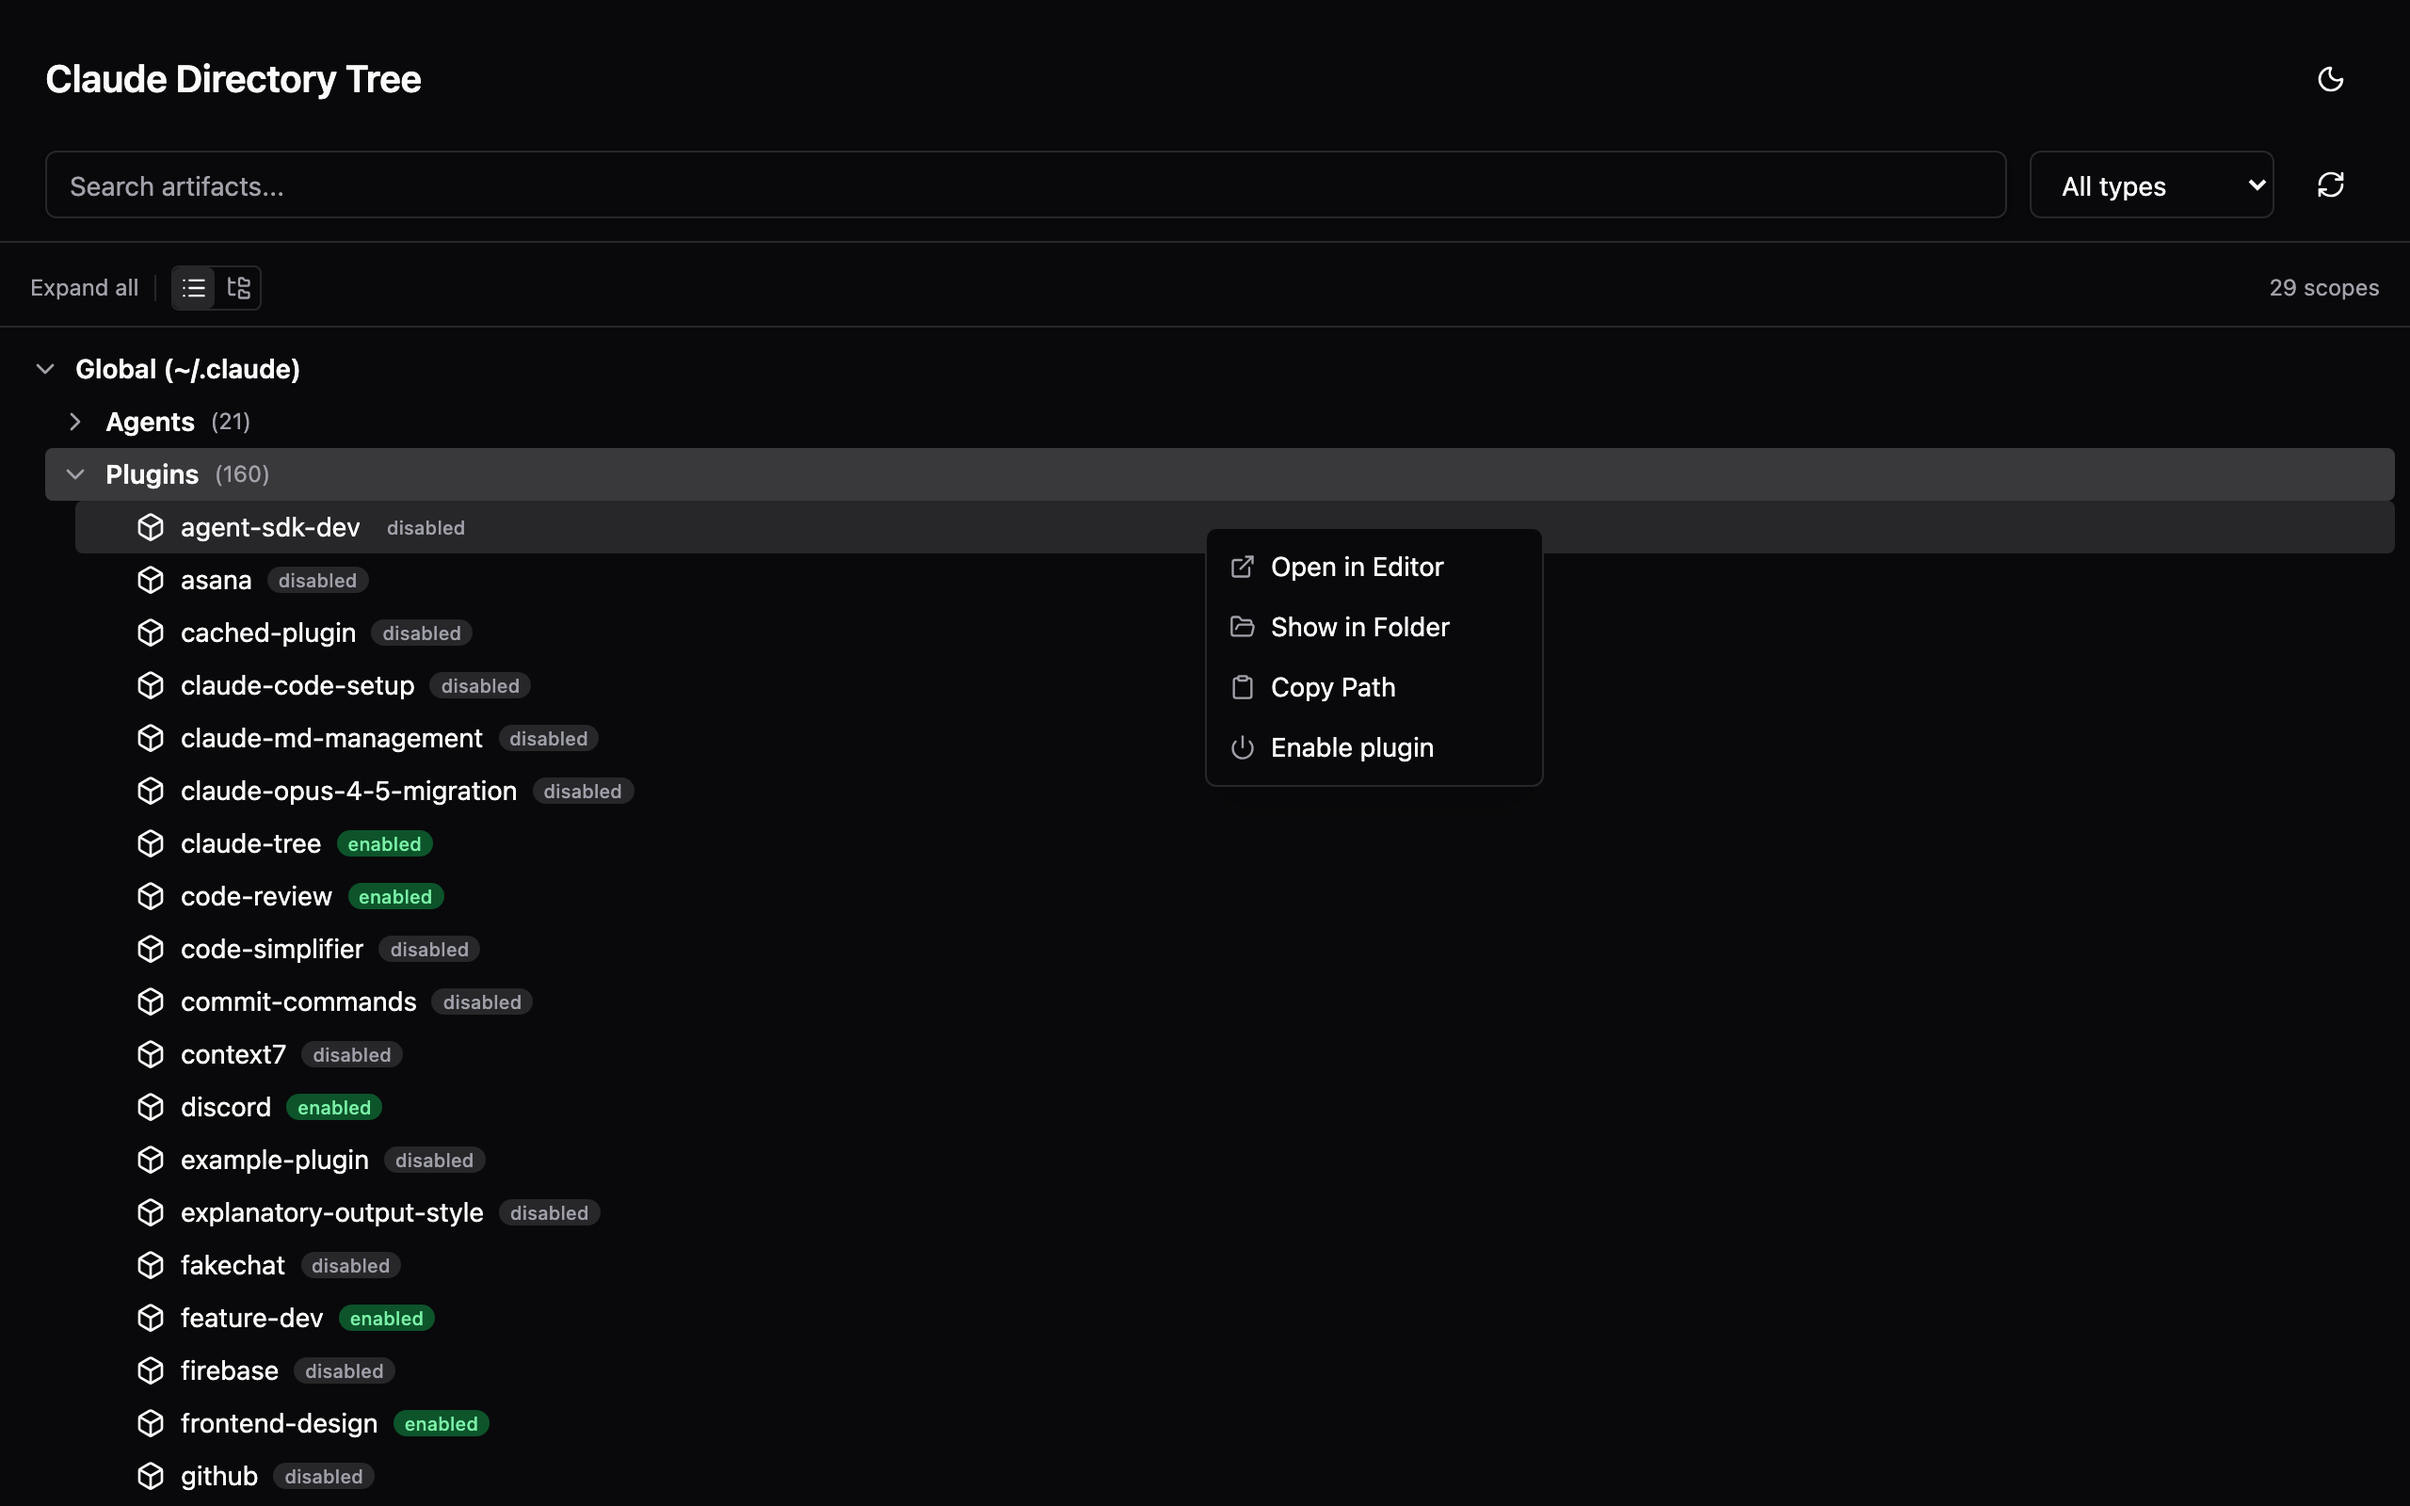
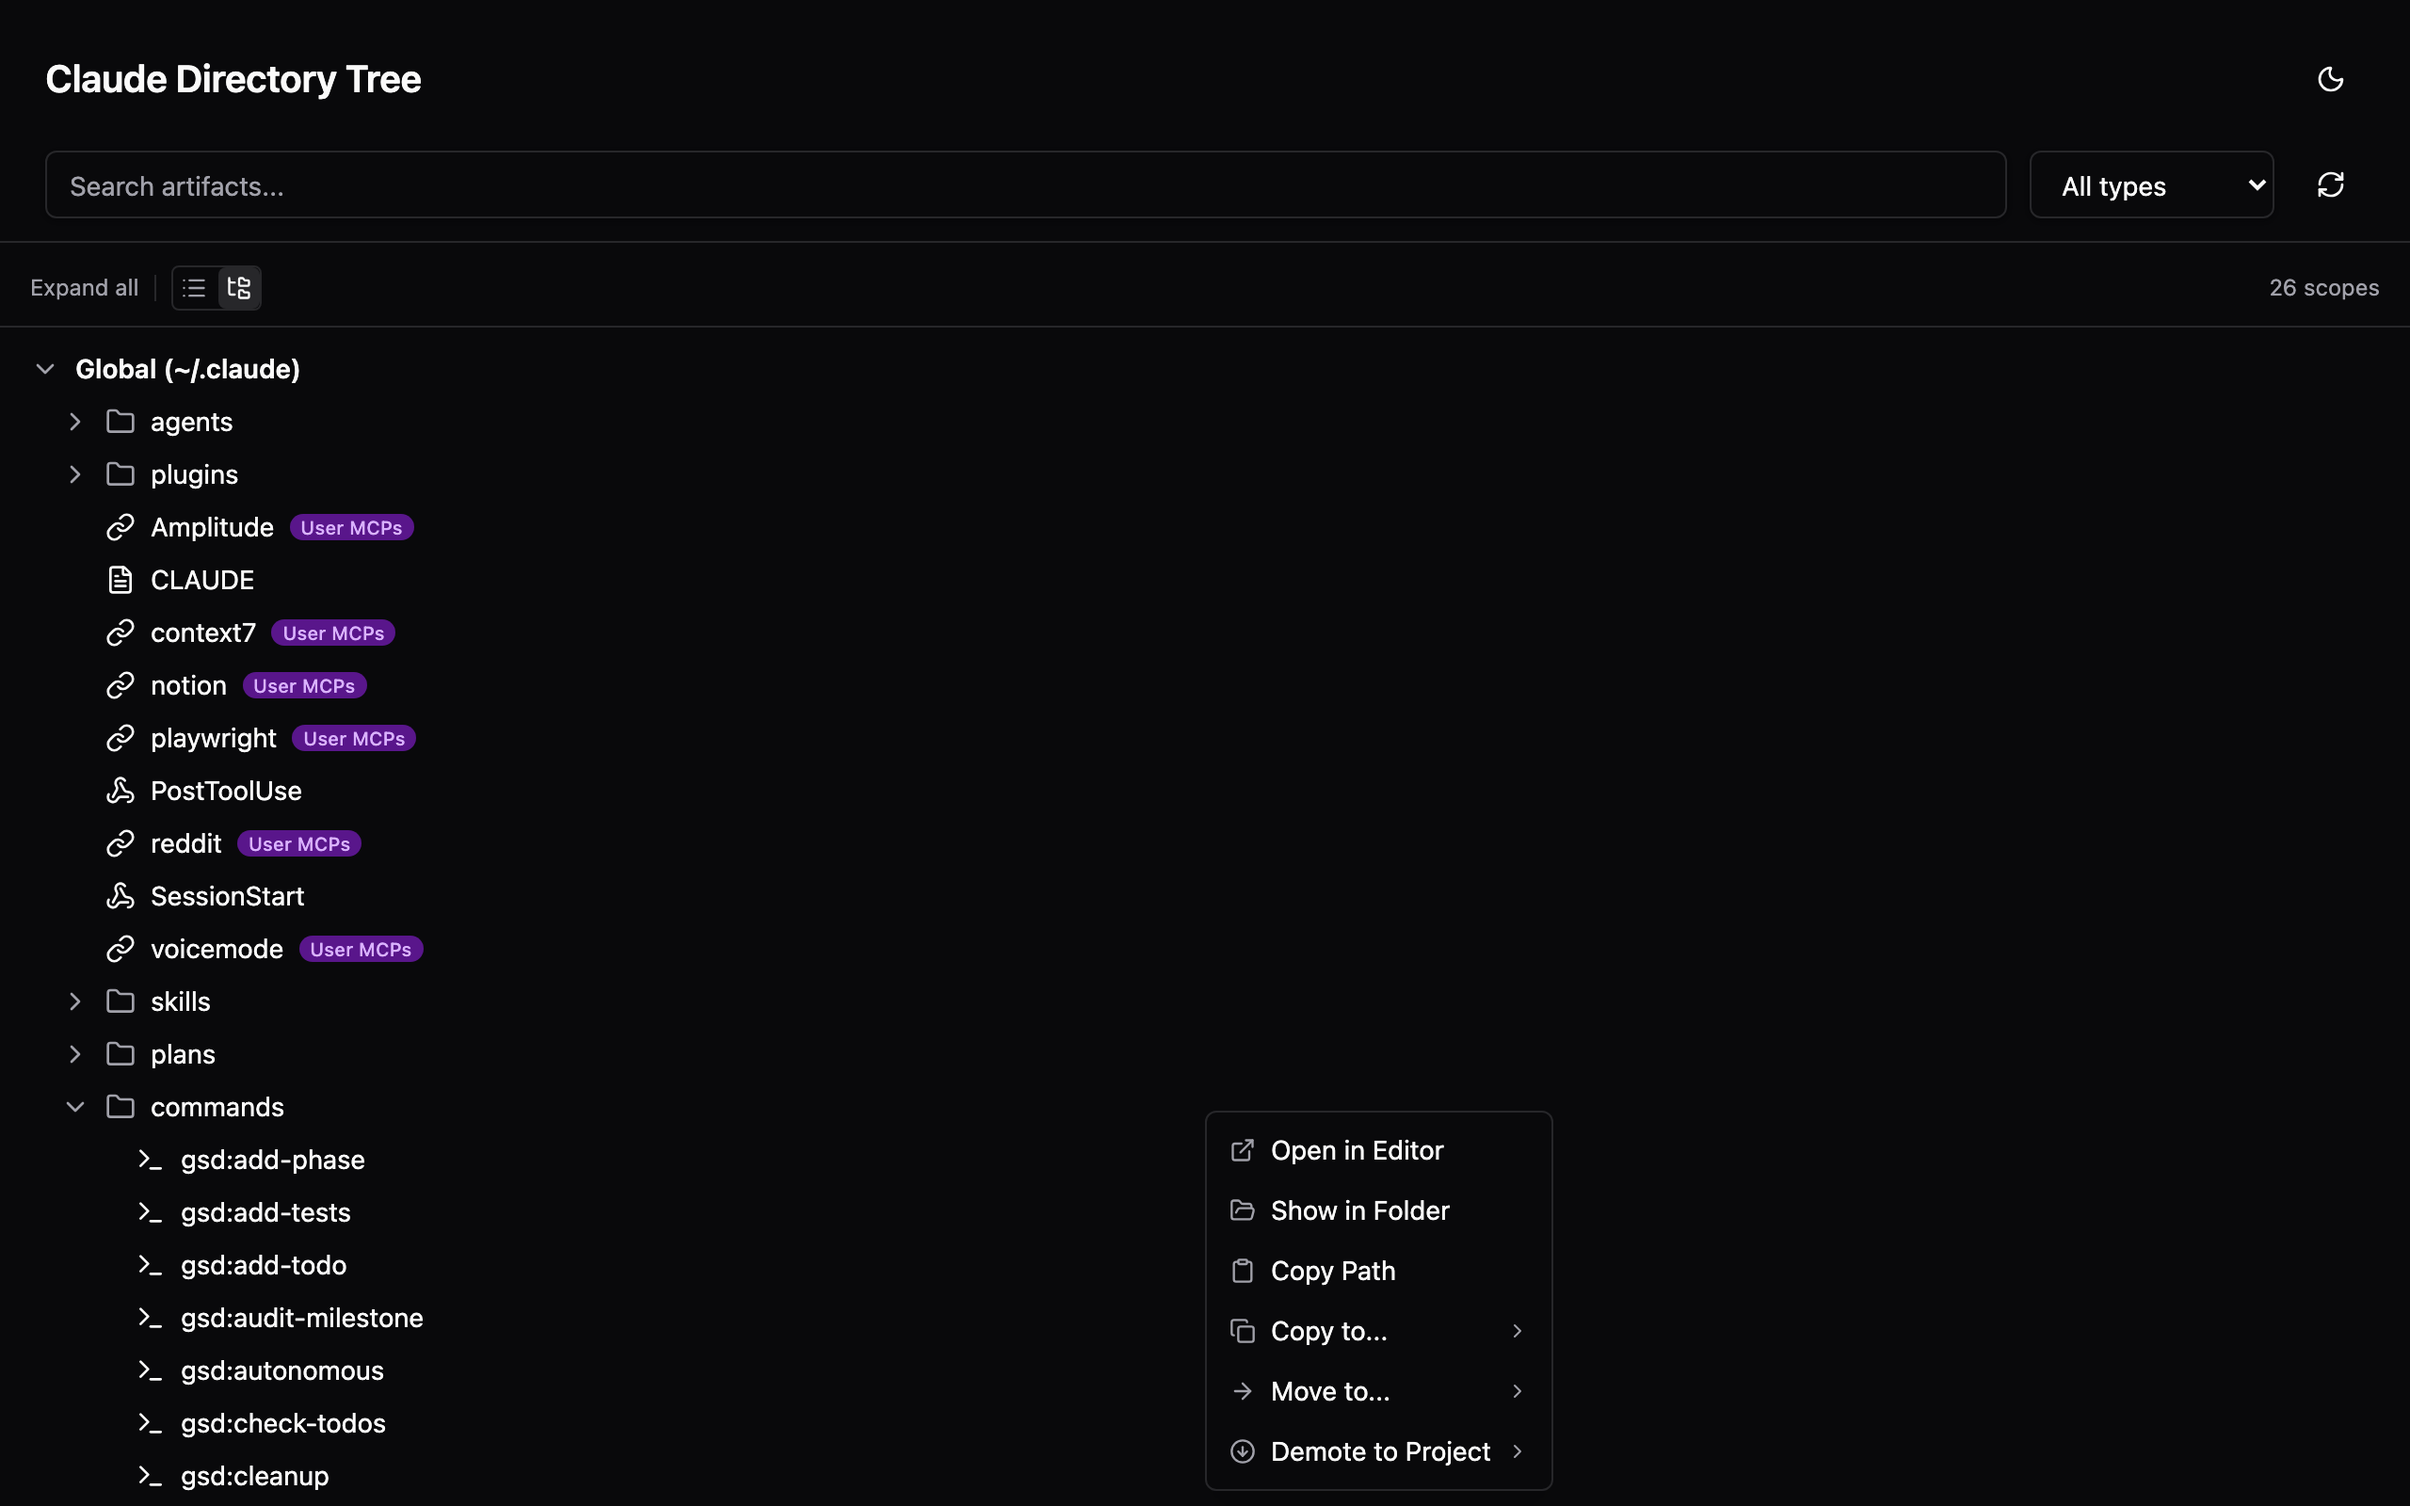
docs: comprehensive README with 8 feature screenshots
Screenshots cover: tree overview, flat view, directory view, search + detail panel,
context menu with copy/move/promote, type filtering, plugin toggle, and light mode.
Client project names filtered from screenshots.

diff --git a/README.md b/README.md
@@ -2,12 +2,12 @@
 
 Visual explorer for all your Claude Code artifacts across projects and scopes.
 
-![Claude Directory Tree - Dark Mode](docs/screenshots/tree-view.png)
+![Claude Directory Tree](docs/screenshots/hero-dark.png)
 
 ## What it does
 
 - See all Claude artifacts (skills, agents, commands, plugins, hooks, CLAUDE.md, MCP servers, memory) in one tree view
-- Organize by scope (global vs project) or filesystem hierarchy
+- Organize by scope (flat) or filesystem hierarchy (directory view)
 - Copy, move, promote (project to global), and demote (global to project) artifacts
 - Search and filter by name or type
 - Toggle plugins on/off directly from the UI
@@ -53,23 +53,39 @@ npx claude-directory-tree /path/to/projects
 
 ## Features
 
-**Search and detail panel** - Find artifacts across all projects, see descriptions and actions at a glance.
+### Search and detail panel
 
-![Search and Detail Panel](docs/screenshots/search-filter.png)
+Find artifacts across all projects. Click any artifact to see its description and available actions.
 
-**Context menu** - Right-click any artifact to open in editor, copy path, or manage plugins.
+![Search and Detail Panel](docs/screenshots/search-detail.png)
+
+### Context menu with operations
+
+Right-click any artifact to copy, move, promote to global, or demote to a project scope.
 
 ![Context Menu](docs/screenshots/context-menu.png)
 
-**Light and dark mode**
+### Directory view
 
-![Light Mode](docs/screenshots/tree-view-light.png)
+Switch between flat scope view and filesystem hierarchy to see where artifacts live on disk.
 
-- Flat scope view and directory hierarchy view with toggle
-- Context menu with copy, move, promote, demote actions
-- Conflict detection with overwrite prompt
-- Detail panel showing artifact summaries
-- Local only, no network calls, no telemetry
+![Directory View](docs/screenshots/directory-view.png)
+
+### Type filtering
+
+Filter by artifact type (agents, commands, plugins, skills, hooks, MCP servers, etc.).
+
+![Type Filter](docs/screenshots/type-filter.png)
+
+### Plugin management
+
+Enable or disable plugins directly from the context menu or detail panel.
+
+![Plugin Toggle](docs/screenshots/plugin-toggle.png)
+
+### Light and dark mode
+
+![Light Mode](docs/screenshots/hero-light.png)
 
 ## Requirements
 
